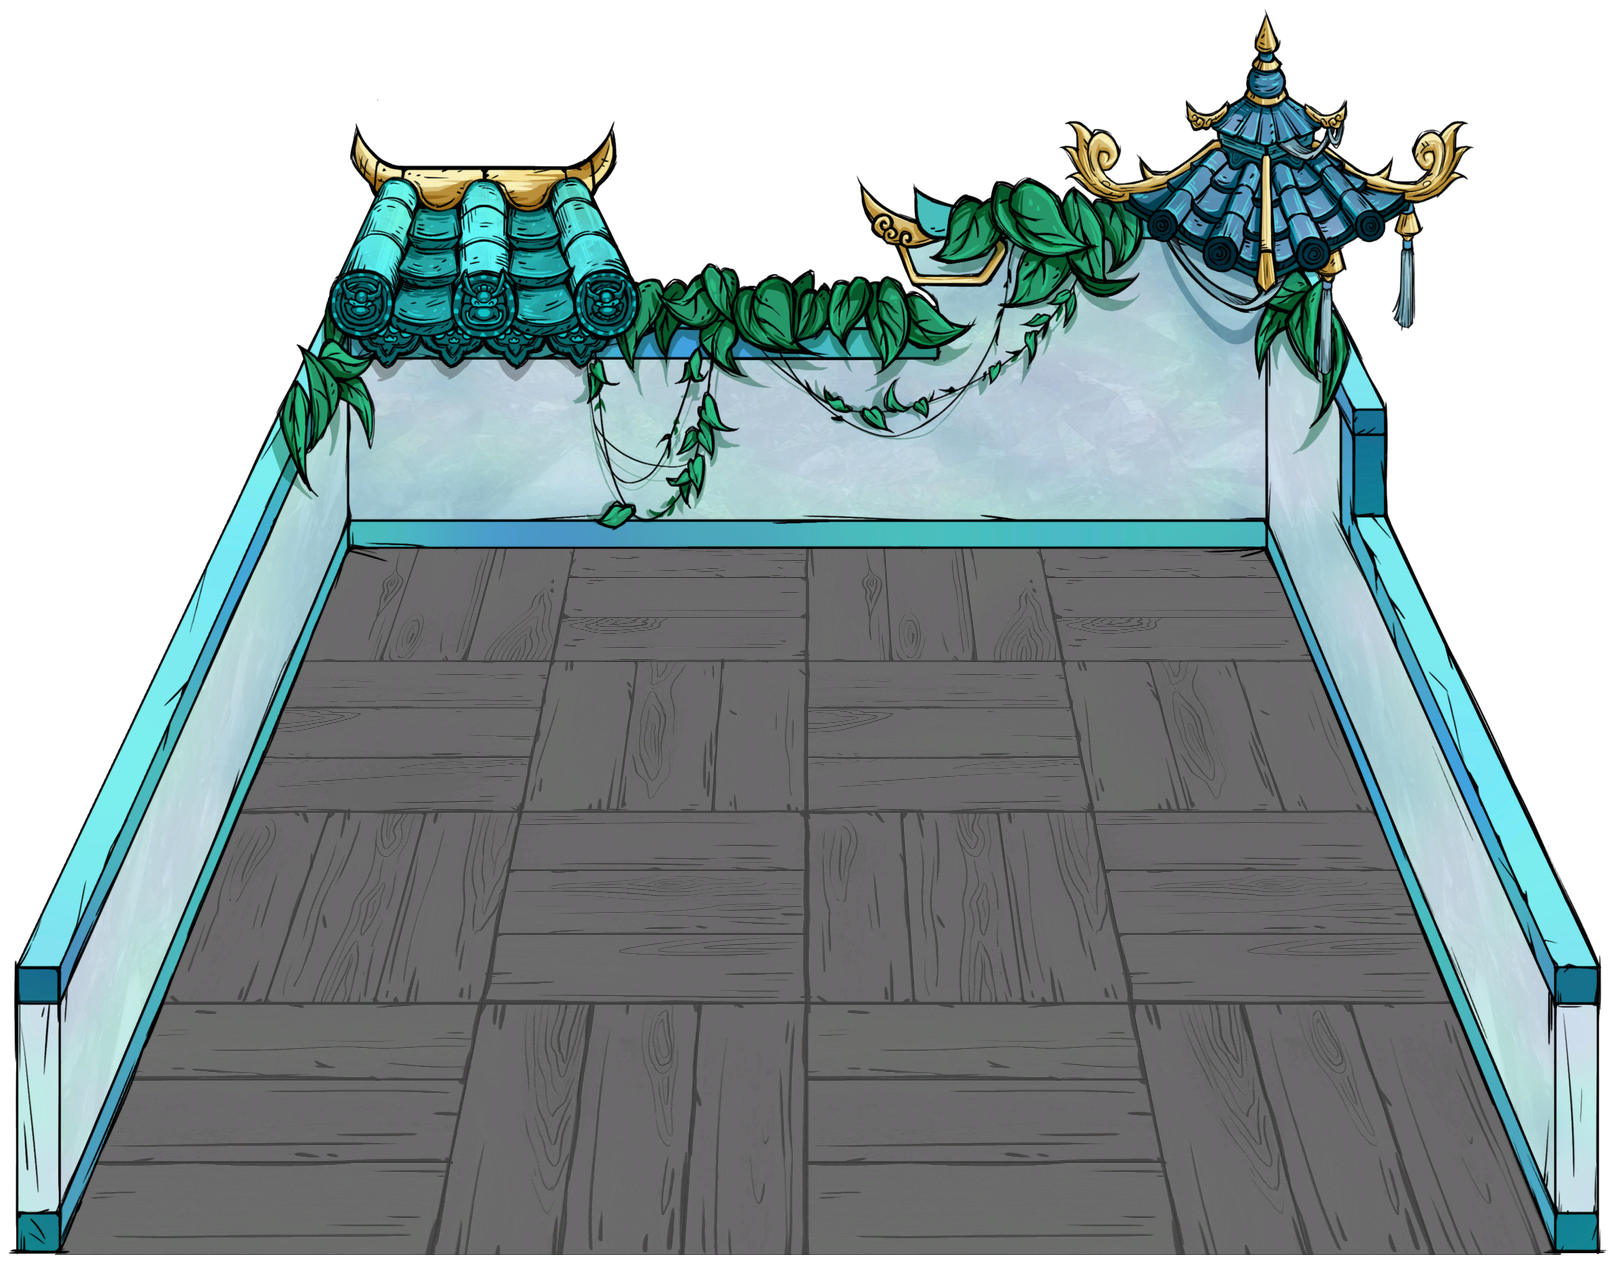
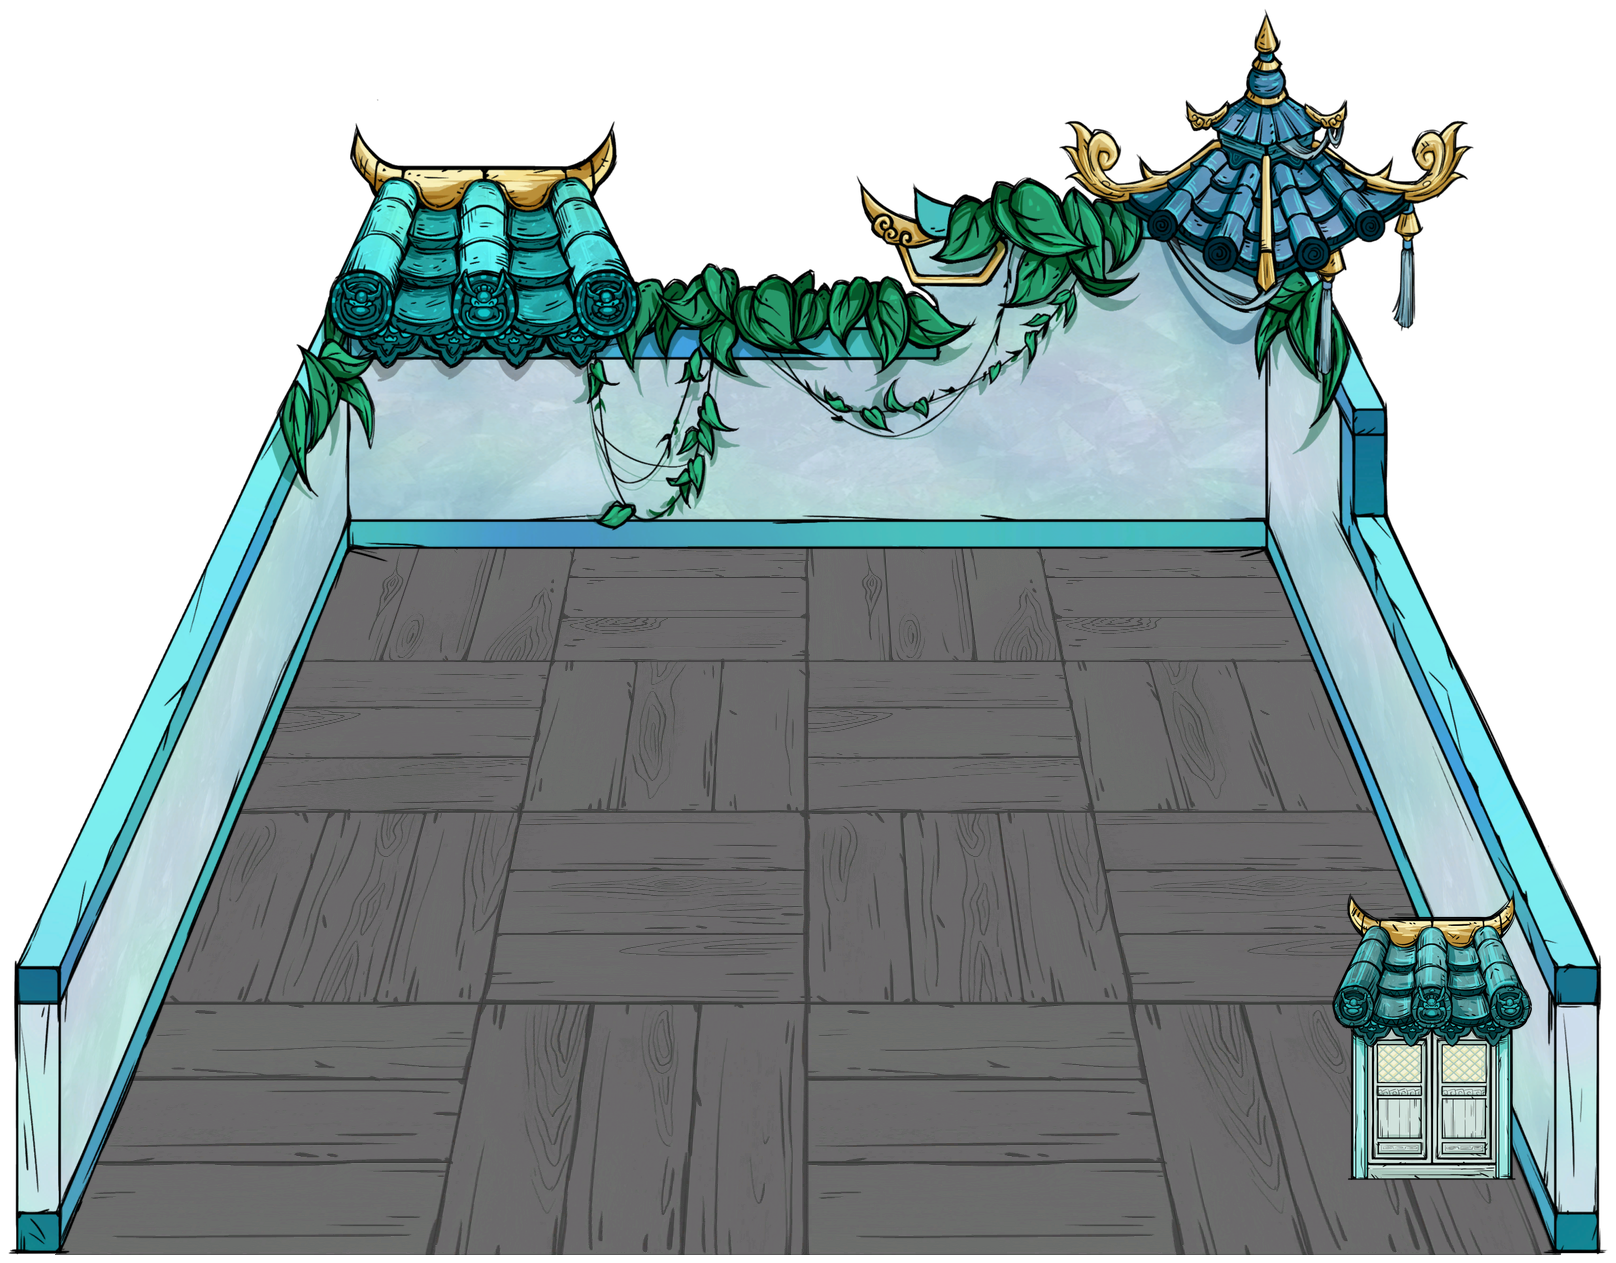
fix: 补齐室内出口与卧房门并校准灵藤位置

Changed region(s): [[0.8045, 0.7102, 0.9592, 0.9572]]

diff --git a/data/site-data.js b/data/site-data.js
@@ -3680,9 +3680,10 @@ window.SITE_DATA = {
       "illustration": "assets/img/terrains/loc_foyer.png",
       "preview_caption": "前室内景预览",
       "scene_hotspots": [
-        { "label": "鎏金太极铃", "target": "loc_hall", "x": 50, "y": 30.74, "width": 15, "height": 13, "hint": "进入厅堂" }
+        {"label": "鎏金太极铃", "target": "loc_hall", "x": 50.0309, "y": 30.7393, "width": 14.9134, "height": 12.9183, "hint": "进入厅堂"},
+        {"label": "青石楼梯", "target": "loc_qingxuan", "x": 49.5978, "y": 93.3074, "width": 8.849, "height": 2.9572, "hint": "回到屋外"}
       ],
-      "scene_hint": "点击图中的鎏金太极铃，进入厅堂。",
+      "scene_hint": "点击图中鎏金太极铃、青石楼梯，前往对应位置。",
       "summary": "进门后首先到达的房间：青石楼梯回屋外，鎏金太极铃通厅堂。入内即享有青玄阁的避难与温控保护。",
       "image": "assets/img/terrains/bighead_fishhouse.png",
       "related": ["loc_qingxuan", "loc_hall"],
@@ -3716,10 +3717,11 @@ window.SITE_DATA = {
       "illustration": "assets/img/terrains/loc_hall.png",
       "preview_caption": "厅堂内景预览",
       "scene_hotspots": [
-        { "label": "引霄灵藤（左侧）", "target": "loc_bedroom", "x": 18.5644, "y": 47.9943, "width": 9.6535, "height": 31.0411, "hint": "进入左侧卧房", "hint_align": "start" },
-        { "label": "引霄灵藤（右侧）", "target": "loc_bedroom_right", "x": 81.4356, "y": 47.9943, "width": 9.6535, "height": 31.0411, "hint": "进入右侧卧房", "hint_align": "end" }
+        {"label": "引霄灵藤（左侧）", "target": "loc_bedroom", "x": 25.3713, "y": 58.978, "width": 9.6535, "height": 31.0411, "hint": "进入左侧卧房", "hint_align": "start"},
+        {"label": "引霄灵藤（右侧）", "target": "loc_bedroom_right", "x": 74.6287, "y": 58.978, "width": 9.6535, "height": 31.0411, "hint": "进入右侧卧房", "hint_align": "end"},
+        {"label": "青石楼梯", "target": "loc_foyer", "x": 49.5978, "y": 92.5024, "width": 8.1064, "height": 3.3429, "hint": "返回前室"}
       ],
-      "scene_hint": "点击两侧的引霄灵藤，进入对应卧房。",
+      "scene_hint": "点击图中引霄灵藤（左侧）、引霄灵藤（右侧）、青石楼梯，前往对应位置。",
       "summary": "青玄阁内连接两间卧房的厅堂，共用防猎犬生成、恒温、避雨与夜间照明。太极莲尊是陈设。",
       "image": "assets/img/terrains/bighead_fishhouse.png",
       "related": [
@@ -3757,7 +3759,11 @@ window.SITE_DATA = {
       "title": "阁主卧房（左侧）",
       "aliases": ["阁主卧房", "左侧卧房"],
       "illustration": "assets/img/terrains/loc_bedroom.png",
+      "scene_hotspots": [
+        {"label": "鎏角青玄门", "target": "loc_hall", "x": 88.6139, "y": 81.9477, "width": 12.3762, "height": 22.9612, "hint": "返回厅堂", "hint_align": "end"}
+      ],
       "preview_caption": "左侧卧房内景预览",
+      "scene_hint": "点击图中鎏角青玄门，前往对应位置。",
       "summary": "由厅堂左侧引霄灵藤进入，鎏角青玄门返回厅堂。共用青玄阁的室内保护，没有自带睡眠或恢复效果。",
       "image": "assets/img/terrains/bighead_fishhouse.png",
       "related": [
@@ -3794,7 +3800,11 @@ window.SITE_DATA = {
       "title": "阁主卧房（右侧）",
       "aliases": ["右侧卧房"],
       "illustration": "assets/img/terrains/loc_bedroom_right.png",
+      "scene_hotspots": [
+        {"label": "银翘古木门", "target": "loc_hall", "x": 11.3243, "y": 81.7894, "width": 12.3762, "height": 22.9612, "hint": "返回厅堂", "hint_align": "start"}
+      ],
       "preview_caption": "右侧卧房内景预览",
+      "scene_hint": "点击图中银翘古木门，前往对应位置。",
       "summary": "由厅堂右侧引霄灵藤进入，银翘古木门返回厅堂。与左侧卧房是不同房间，墙景独立，保护效果相同。",
       "image": "assets/img/terrains/bighead_fishhouse.png",
       "related": ["loc_qingxuan", "loc_hall"],

diff --git a/assets/css/modal.css b/assets/css/modal.css
@@ -374,14 +374,14 @@
   min-width: 44px;
   min-height: 44px;
   transform: translate(-50%, -50%);
-  border-radius: 50%;
+  border-radius: 4px;
+  cursor: pointer;
 }
 
 .scene-hotspot:hover,
 .scene-hotspot:focus-visible {
-  outline: 2px solid var(--cinnabar);
-  outline-offset: 4px;
-  background: color-mix(in srgb, var(--paper) 12%, transparent);
+  outline: none;
+  background: transparent;
 }
 
 .scene-hotspot__hint {
@@ -397,12 +397,17 @@
   font-size: var(--fs-small);
   pointer-events: none;
   visibility: hidden;
+  opacity: 0;
+  transition: opacity 160ms var(--ease);
 }
 
 .scene-hotspot:hover .scene-hotspot__hint,
 .scene-hotspot:focus-visible .scene-hotspot__hint {
   visibility: visible;
+  opacity: 1;
 }
+
+.scene-hotspot:focus-visible .scene-hotspot__hint { outline: 1px solid var(--ink-3); outline-offset: 3px; }
 
 .scene-hotspot[data-hint-align="start"] .scene-hotspot__hint {
   left: 0;

diff --git a/tools/export_terrain_previews.py b/tools/export_terrain_previews.py
@@ -8,6 +8,7 @@ plane, then placed behind the wall. These are art previews, not game screenshots
 """
 import argparse
 import json
+import re
 import tempfile
 from pathlib import Path
 from zipfile import ZipFile
@@ -33,21 +34,43 @@ FLOOR_QUADS = {
 }
 
 # Separate prefabs spawned by bighead_door_exit.lua, not baked into the walls.
-# Ground positions are (x, z) relative to the hall's house centre. The east-side
-# vine is mirrored by AnimState:SetScale(-scale, scale, scale) in the mod.
+# World positions are (x, z) relative to each house centre. Preview offsets
+# bring the vines onto the visible inner edge of the cutaway wall; they are
+# image-space calibration, not changes to the mod's world coordinates.
 FURNISHINGS = {
     'loc_foyer': [
         {'prefab': 'bighead_men1', 'animation': 'men1', 'center': (808, 395),
-         'target': 'loc_hall'},
+         'world_position': (-14, 0), 'target': 'loc_hall',
+         'label': '鎏金太极铃', 'hint': '进入厅堂'},
+        {'prefab': 'bighead_door_exit', 'source': 'bighead_door_exit',
+         'animation': 'idle', 'world_position': (14, -.15),
+         'target': 'loc_qingxuan', 'label': '青石楼梯', 'hint': '回到屋外'},
     ],
     'loc_hall': [
         {'prefab': 'bighead_yizi', 'animation': 'yizi',
          'world_position': (-15.3, 0)},
         {'prefab': 'bighead_men2', 'animation': 'men2',
-         'world_position': (1.65, -15), 'target': 'loc_bedroom'},
+         'world_position': (1.65, -15), 'preview_offset': (110, 115),
+         'target': 'loc_bedroom', 'label': '引霄灵藤（左侧）',
+         'hint': '进入左侧卧房', 'hint_align': 'start'},
         {'prefab': 'bighead_men2', 'animation': 'men2',
          'world_position': (1.65, 15), 'mirror_x': True,
-         'target': 'loc_bedroom_right'},
+         'preview_offset': (-110, 115),
+         'target': 'loc_bedroom_right', 'label': '引霄灵藤（右侧）',
+         'hint': '进入右侧卧房', 'hint_align': 'end'},
+        {'prefab': 'bighead_door_exit', 'source': 'bighead_door_exit',
+         'animation': 'idle', 'world_position': (14, -.15),
+         'target': 'loc_foyer', 'label': '青石楼梯', 'hint': '返回前室'},
+    ],
+    'loc_bedroom': [
+        {'prefab': 'bighead_men3', 'animation': 'men3',
+         'world_position': (14, 14), 'target': 'loc_hall',
+         'label': '鎏角青玄门', 'hint': '返回厅堂', 'hint_align': 'end'},
+    ],
+    'loc_bedroom_right': [
+        {'prefab': 'bighead_men4', 'animation': 'men4',
+         'world_position': (14, -14), 'target': 'loc_hall',
+         'label': '银翘古木门', 'hint': '返回厅堂', 'hint_align': 'start'},
     ],
 }
 
@@ -126,15 +149,59 @@ def composite_furnishings(scene, entry_id, ratio, scratch, frames):
         else:
             ground = ground_position(FLOOR_QUADS[entry_id], furnishing['world_position'])
             position = (round(ground[0] - anchor[0]), round(ground[1] - anchor[1]))
+        dx, dy = furnishing.get('preview_offset', (0, 0))
+        position = (position[0] + dx, position[1] + dy)
         scene.alpha_composite(sprite, position)
-        record = {'prefab': furnishing['prefab'], 'source': 'bighead_men',
+        record = {'prefab': furnishing['prefab'],
+                  'source': furnishing.get('source', 'bighead_men'),
                   'animation': animation, 'frame': 1,
                   'bounds': [*position, *sprite.size]}
-        for key in ('target', 'world_position', 'mirror_x'):
+        for key in ('target', 'world_position', 'mirror_x', 'preview_offset',
+                    'label', 'hint', 'hint_align'):
             if key in furnishing:
                 record[key] = furnishing[key]
         records.append(record)
     return records
+
+
+def sync_hotspots(records):
+    """Keep clicks on the rendered sprites, including doors and exit stairs."""
+    target = ROOT / 'data/site-data.js'
+    text = target.read_text(encoding='utf-8')
+    for room in records:
+        width, height = room['display_size']
+        hotspots = []
+        for part in room['furnishings']:
+            if 'target' not in part:
+                continue
+            x, y, w, h = part['bounds']
+            hotspot = {'label': part['label'], 'target': part['target'],
+                       'x': round((x + w / 2) / width * 100, 4),
+                       'y': round((y + h / 2) / height * 100, 4),
+                       'width': round(w / width * 100, 4),
+                       'height': round(h / height * 100, 4), 'hint': part['hint']}
+            if 'hint_align' in part:
+                hotspot['hint_align'] = part['hint_align']
+            hotspots.append(hotspot)
+        start = text.index('"id": "' + room['id'] + '"')
+        end = text.index('\n    },', start)
+        block = text[start:end]
+        value = '"scene_hotspots": [\n' + ',\n'.join(
+            '        ' + json.dumps(hotspot, ensure_ascii=False) for hotspot in hotspots
+        ) + '\n      ],'
+        if '"scene_hotspots"' in block:
+            block, count = re.subn(r'"scene_hotspots": \[[\s\S]*?\n      \],', lambda _: value, block, count=1)
+            if count != 1:
+                raise ValueError('Cannot update hotspot block for ' + room['id'])
+        else:
+            block = block.replace('"preview_caption":', value + '\n      "preview_caption":', 1)
+        hint = '点击图中' + '、'.join(part['label'] for part in hotspots) + '，前往对应位置。'
+        if '"scene_hint"' in block:
+            block = re.sub(r'"scene_hint": "[^"\n]*"', lambda _: '"scene_hint": ' + json.dumps(hint, ensure_ascii=False), block, count=1)
+        else:
+            block = block.replace('"summary":', '"scene_hint": ' + json.dumps(hint, ensure_ascii=False) + ',\n      "summary":', 1)
+        text = text[:start] + block + text[end:]
+    target.write_text(text, encoding='utf-8')
 
 
 def export(tool, mod):
@@ -144,7 +211,7 @@ def export(tool, mod):
         with ZipFile(mod) as archive:
             sources = [source for _, source, _ in ROOMS]
             sources += [source.replace('wall', 'floor') for source in sources]
-            sources.append('bighead_men')
+            sources += ['bighead_men', 'bighead_door_exit']
             for source in sources:
                 name = next(n for n in archive.namelist() if n.endswith(f"/anim/{source}.zip"))
                 (scratch / f"{source}.zip").write_bytes(archive.read(name))
@@ -168,13 +235,15 @@ def export(tool, mod):
                 f'builds={{doc.builds:find("{floor_source}")}}, hide_layers={{}}, override_symbols={{}}, scale=1}})',
             ])
         code.append(f'doc:import_resources({{{lua_string(scratch / "bighead_men.zip")}}})')
+        code.append(f'doc:import_resources({{{lua_string(scratch / "bighead_door_exit.zip")}}})')
         animations = sorted({item['animation'] for items in FURNISHINGS.values() for item in items})
         for animation in animations:
+            source = 'bighead_door_exit' if animation == 'idle' else 'bighead_men'
             code.extend([
-                f'local f=doc.banks:find("bighead_men").animations:find("{animation}").frames[1]',
+                f'local f=doc.banks:find("{source}").animations:find("{animation}").frames[1]',
                 f'print("FURNISHING","{animation}",f.x,f.y)',
                 'f:export_png(' + lua_string(scratch / f'furnishing-{animation}.png') + ', {'
-                + 'builds={doc.builds:find("bighead_men")}, hide_layers={}, override_symbols={}, scale=1,'
+                + f'builds={{doc.builds:find("{source}")}}, hide_layers={{}}, override_symbols={{}}, scale=1,'
                 + 'canvas={center_x=f.x,center_y=f.y,width=math.ceil(f.width)+16,height=math.ceil(f.height)+16}})',
             ])
         before = request(code='assert(tool.document_is_empty, "Room export requires an empty document"); print(tool.document_revision)', tool=tool, scratch=scratch)
@@ -235,6 +304,7 @@ def export(tool, mod):
         "kind": "original_room_composite", "source_prefab": "scripts/prefabs/bighead_door_exit.lua",
         "composition": "Original floor projected into wall perspective, with wall above floor; not a gameplay screenshot.",
         "assets": records}, ensure_ascii=False, indent=2) + '\n', encoding='utf-8')
+    sync_hotspots(records)
 
 
 if __name__ == '__main__':

diff --git a/docs/04-v4.8资料同步.md b/docs/04-v4.8资料同步.md
@@ -102,9 +102,15 @@ python tools/export_mod_displays.py --tool "C:/tools/dst-app.exe" --mod "../bigh
 
 厅堂另外叠入同一动画包的 `yizi`（太极莲尊）和两份 `men2`（引霄灵藤）第1帧。
 使用与墙景一致的缩小比例，根据房间生成代码中相对中心的坐标，将各自的动画原点投影到
-同一地面平面；右侧灵藤按代码中的 `eastside` 水平镜像。清单记录素材、房间坐标、镜像
-及最终图像边界。左右灵藤各自覆盖一个热点，建筑区原地进入对应卧房，详情弹窗中打开
-对应卧房详情。室内展示容器跟随各张原图比例，避免热点因等比留白而偏离陈设。
+同一地面平面；右侧灵藤按代码中的 `eastside` 水平镜像。灵藤在剖面预览中向室内地面校准，
+图像偏移单列为 `preview_offset`，不将其冒充模组坐标。
+
+前室与厅堂的前方补入 `bighead_door_exit.zip` 的 `idle` 出口台阶；左、右卧房分别补入
+`bighead_men.zip` 的 `men3`（鎏角青玄门）和 `men4`（银翘古木门）。门与台阶使用各自的
+实际生成坐标、原始朝向和墙景缩小比例。清单记录素材、房间坐标、镜像及最终图像边界；
+导出脚本根据最终边界同步条目 `scene_hotspots`，避免图像移位后点击区域停在旧位置。
+建筑区点击陈设原地切换对应房间，详情弹窗中打开对应房间详情。鼠标悬停与键盘聚焦只显示
+简洁名称提示，不再用红圈遮挡原图。室内展示容器跟随各张原图比例。
 
 ```powershell
 python tools/export_terrain_previews.py --tool "C:/tools/dst-app.exe" --mod "../bighead.zip"
